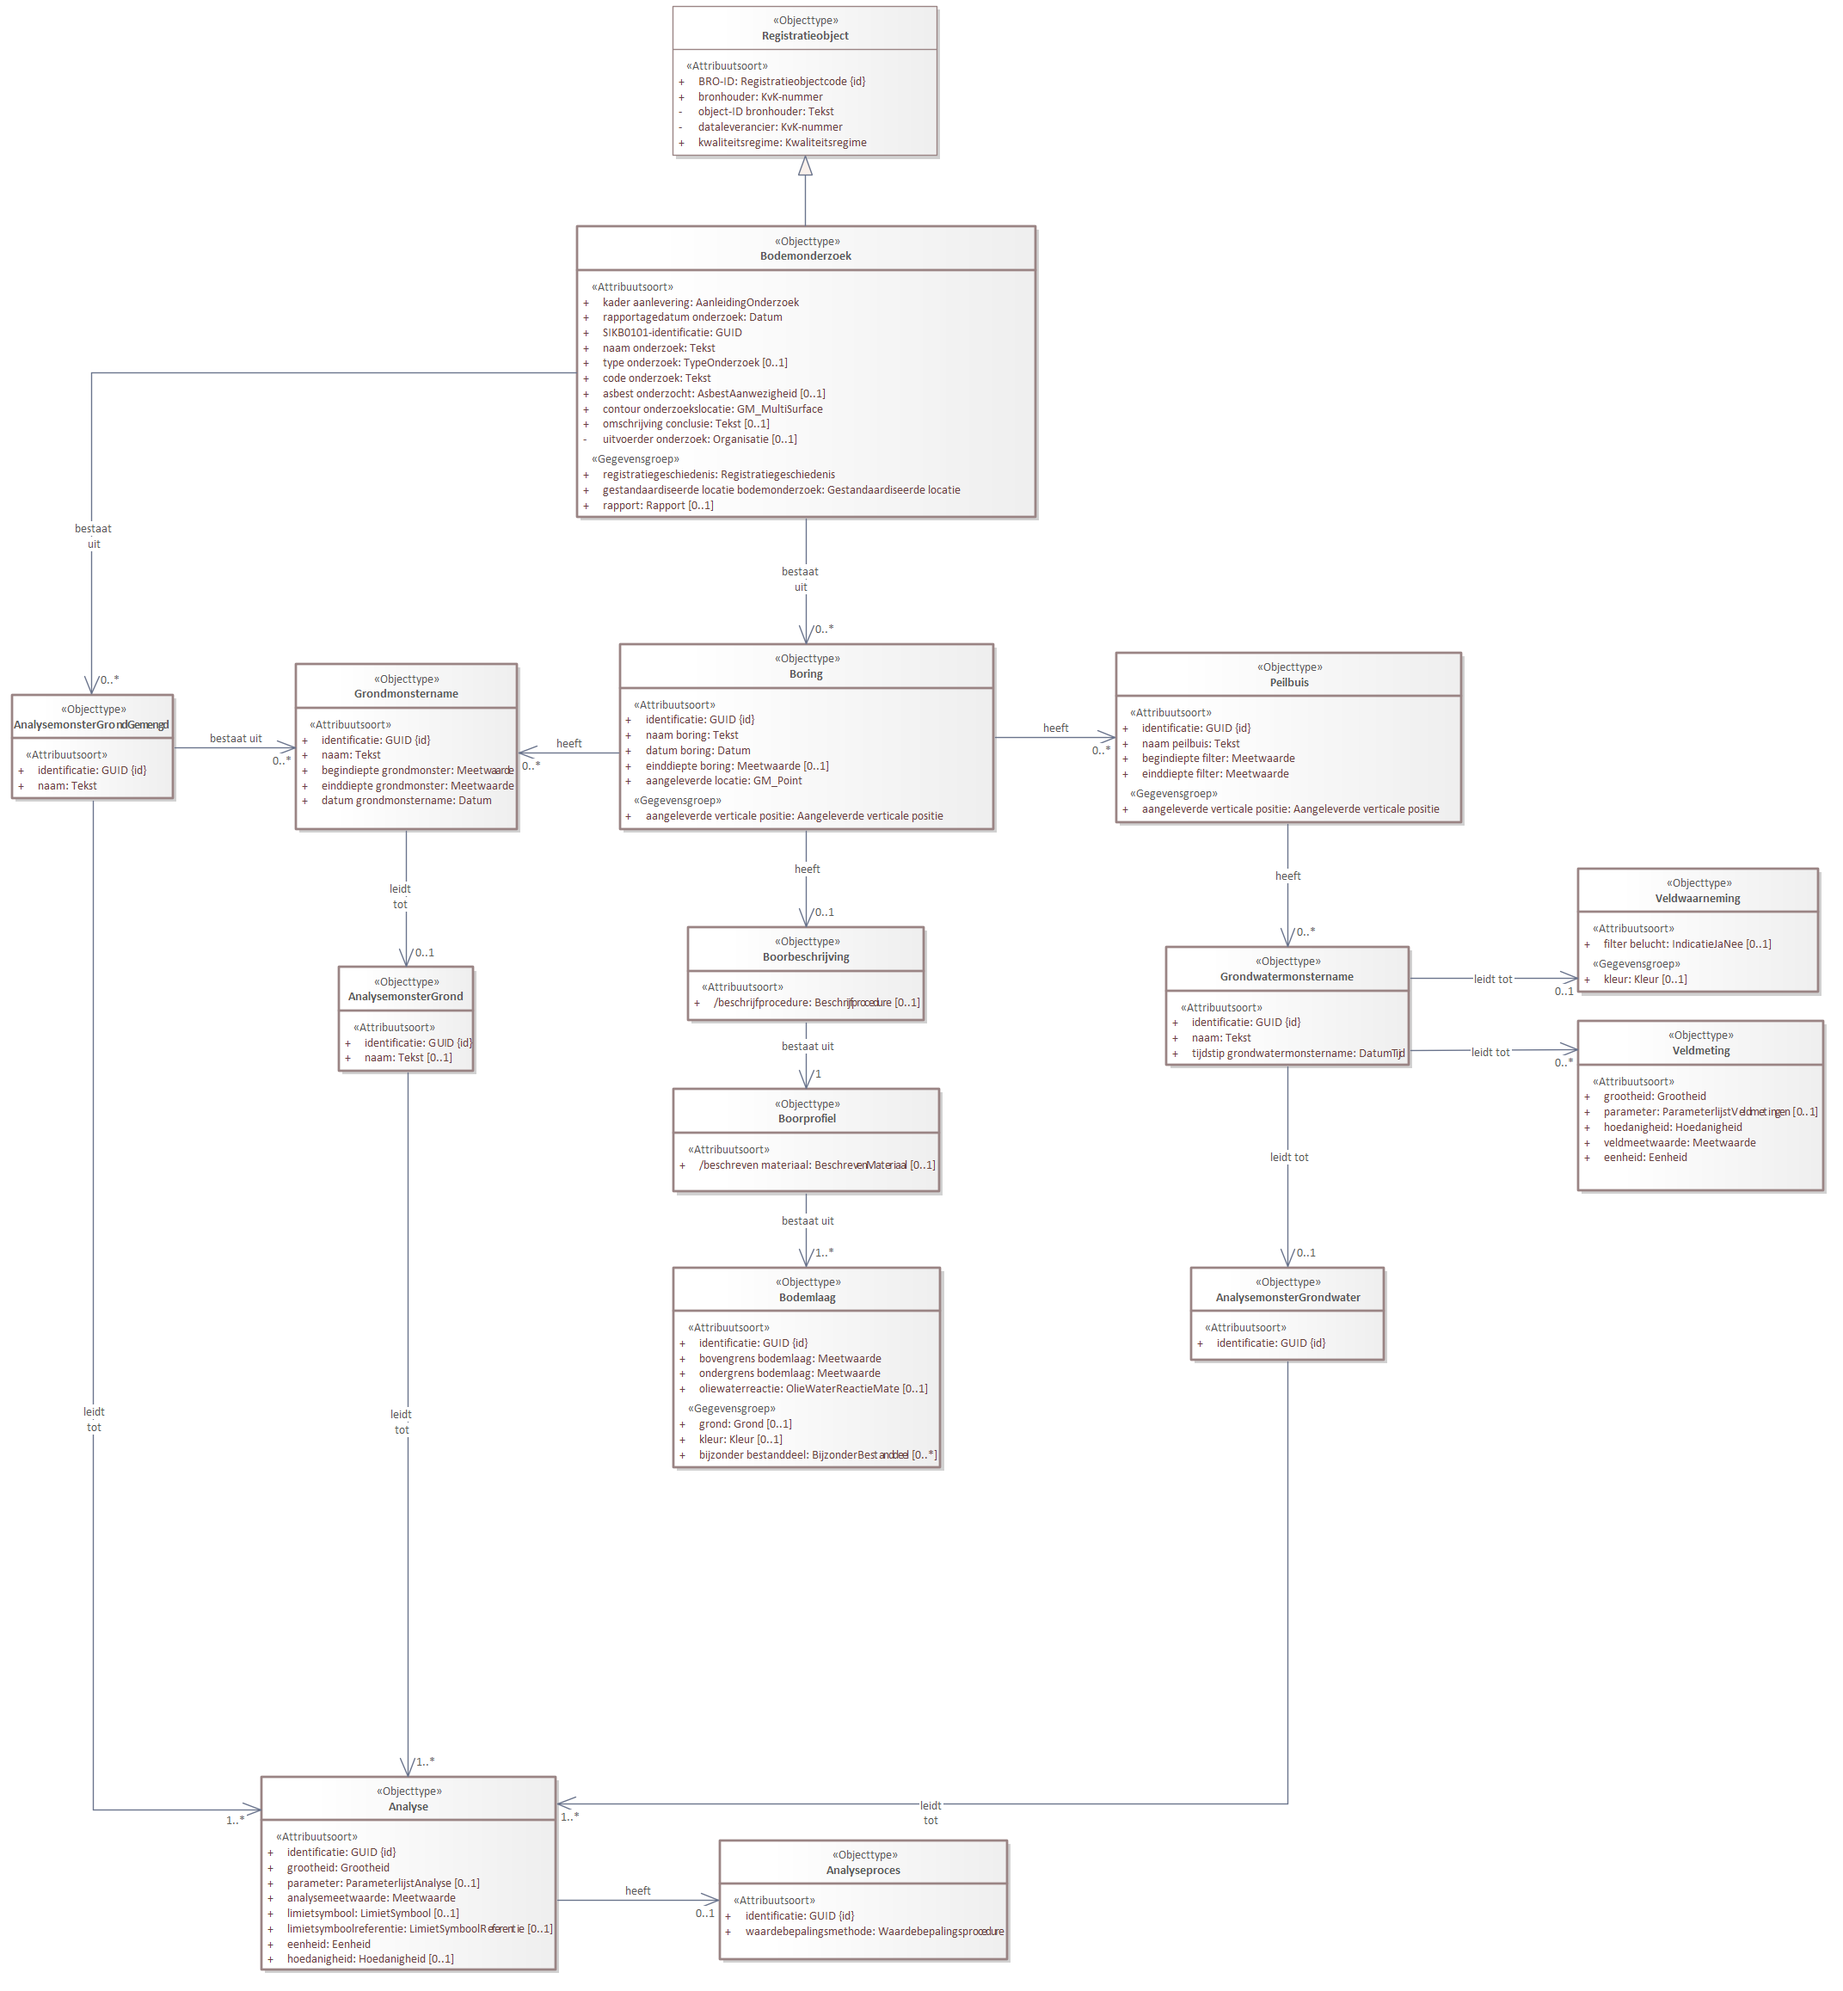
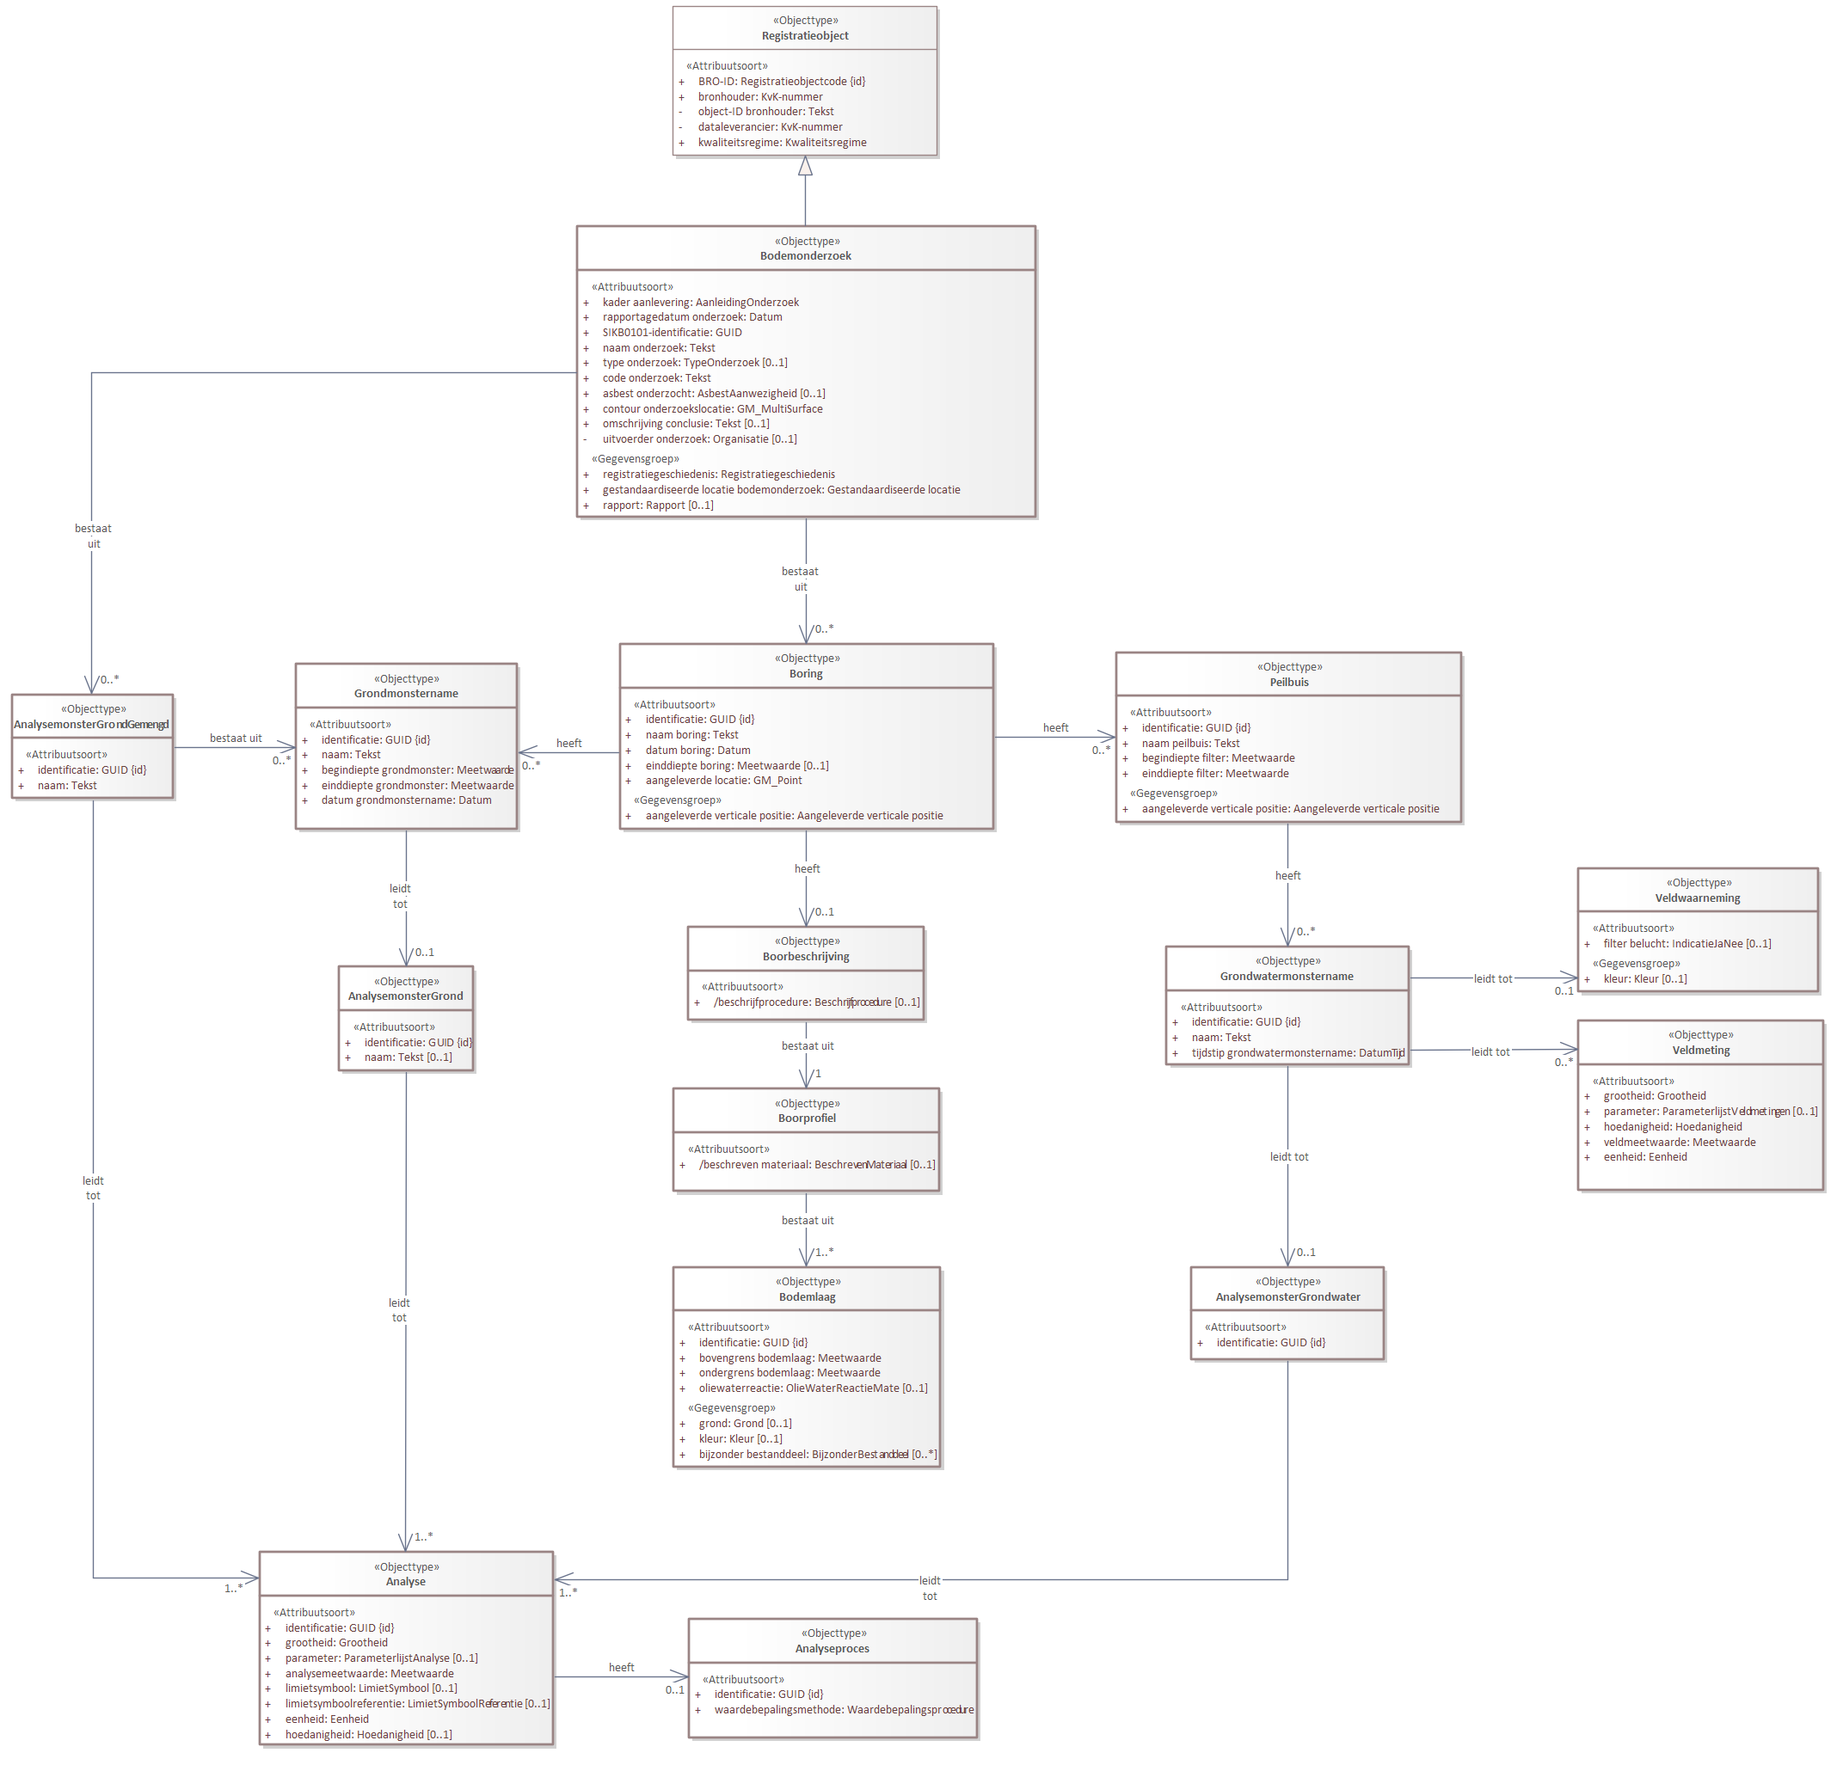
Conceptualmodel-MilieuhygienischbodemonderzoekSAD-0.2-1-20230126-20230627-113131

diff --git a/data/SAD-cat.msword.html b/data/SAD-cat.msword.html
@@ -15,7 +15,7 @@
    <body>
       <p>Conceptual model/Milieuhygienisch bodemonderzoek SAD/20230126</p>
       <p>Imvertor: 2.0.0</p>
-      <p>Model release: Conceptualmodel-MilieuhygienischbodemonderzoekSAD-0.2-1-20230126-20230627-112716</p>
+      <p>Model release: Conceptualmodel-MilieuhygienischbodemonderzoekSAD-0.2-1-20230126-20230627-113131</p>
       <hr>
       <section>
          <h1>Artikel 1 Definitie van registratieobject, entiteiten en attributen</h1>
@@ -66,7 +66,7 @@
          <section>
             <h2>Het domeinmodel</h2>
             <section id="">
-               <div class="imageinfo overview"><img src="Images/EAID_FABA90F8_223C_433d_BAE3_74F87B3DC220.png" usemap="#imagemap-EAID_FABA90F8_223C_433d_BAE3_74F87B3DC220" alt="Diagram &#xA;                        &#xA;                     "><map name="imagemap-EAID_FABA90F8_223C_433d_BAE3_74F87B3DC220"><area shape="rect" alt="Analyseproces" coords="837,2140,1172,2279" href="#graph_EAID_89FCADC6_B091_492b_94BD_37324C7637EA"><area shape="rect" alt="Analyse" coords="304,2066,647,2291" href="#graph_EAID_AE9CD58D_588C_44cf_A7B7_09EDB181B001"><area shape="rect" alt="AnalysemonsterGrondwater" coords="1385,1474,1610,1582" href="#graph_EAID_50237BC0_6FD9_482a_841F_A44137C00FCA"><area shape="rect" alt="AnalysemonsterGrond" coords="394,1124,551,1246" href="#graph_EAID_DFC0DB4F_7DC8_4920_917A_907819C6EC19"><area shape="rect" alt="Boorprofiel" coords="783,1266,1093,1386" href="#graph_EAID_6CF3D55E_1BD5_4108_BEA5_8B69EB2D2097"><area shape="rect" alt="Boorbeschrijving" coords="800,1078,1075,1187" href="#graph_EAID_080E44E6_527C_42db_BCF3_7400257377C2"><area shape="rect" alt="Veldmeting" coords="1835,1187,2121,1385" href="#graph_EAID_C348E314_A61B_43a0_AFED_083DA812EC5F"><area shape="rect" alt="Veldwaarneming" coords="1835,1010,2115,1154" href="#graph_EAID_A3A8A9F5_B12D_47e9_9D67_F12687999F0D"><area shape="rect" alt="AnalysemonsterGrondGemengd" coords="14,808,202,929" href="#graph_EAID_E7A3C99D_3348_4875_9BD5_4E0481E72C54"><area shape="rect" alt="Grondwatermonstername" coords="1356,1101,1639,1239" href="#graph_EAID_24B6DB20_4EA3_453f_B195_E642F22CC27C"><area shape="rect" alt="Grondmonstername" coords="344,772,602,965" href="#graph_EAID_8A8D6A0E_DAF9_415a_9AE7_09155A2C5869"><area shape="rect" alt="Peilbuis" coords="1298,759,1700,957" href="#graph_EAID_0075B243_E663_4ee7_9154_9D5DE12CCB21"><area shape="rect" alt="Bodemlaag" coords="783,1474,1094,1707" href="#graph_EAID_88CF9E45_3E0E_40da_96C1_2CDD80B69F6F"><area shape="rect" alt="Boring" coords="721,749,1156,965" href="#graph_EAID_40FFF5B9_99C5_4c21_9D72_A3D1DD3C857F"><area shape="rect" alt="Registratieobject" coords="782,7,1090,181" href="#graph_EAID_67DBE718_38E0_4ead_8649_72EA0B4A2355"><area shape="rect" alt="Bodemonderzoek" coords="671,263,1205,602" href="#graph_EAID_ABAADB49_C747_4775_A739_CC832CAD59F1"></map><p><b>Domeinmodel milieuhygienisch bodemonderzoek</b></p>
+               <div class="imageinfo overview"><img src="Images/EAID_FABA90F8_223C_433d_BAE3_74F87B3DC220.png" usemap="#imagemap-EAID_FABA90F8_223C_433d_BAE3_74F87B3DC220" alt="Diagram &#xA;                        &#xA;                     "><map name="imagemap-EAID_FABA90F8_223C_433d_BAE3_74F87B3DC220"><area shape="rect" alt="Analyseproces" coords="801,1883,1137,2022" href="#graph_EAID_89FCADC6_B091_492b_94BD_37324C7637EA"><area shape="rect" alt="Analyse" coords="302,1805,644,2030" href="#graph_EAID_AE9CD58D_588C_44cf_A7B7_09EDB181B001"><area shape="rect" alt="AnalysemonsterGrondwater" coords="1385,1474,1610,1582" href="#graph_EAID_50237BC0_6FD9_482a_841F_A44137C00FCA"><area shape="rect" alt="AnalysemonsterGrond" coords="394,1124,551,1246" href="#graph_EAID_DFC0DB4F_7DC8_4920_917A_907819C6EC19"><area shape="rect" alt="Boorprofiel" coords="783,1266,1093,1386" href="#graph_EAID_6CF3D55E_1BD5_4108_BEA5_8B69EB2D2097"><area shape="rect" alt="Boorbeschrijving" coords="800,1078,1075,1187" href="#graph_EAID_080E44E6_527C_42db_BCF3_7400257377C2"><area shape="rect" alt="Veldmeting" coords="1835,1187,2121,1385" href="#graph_EAID_C348E314_A61B_43a0_AFED_083DA812EC5F"><area shape="rect" alt="Veldwaarneming" coords="1835,1010,2115,1154" href="#graph_EAID_A3A8A9F5_B12D_47e9_9D67_F12687999F0D"><area shape="rect" alt="AnalysemonsterGrondGemengd" coords="14,808,202,929" href="#graph_EAID_E7A3C99D_3348_4875_9BD5_4E0481E72C54"><area shape="rect" alt="Grondwatermonstername" coords="1356,1101,1639,1239" href="#graph_EAID_24B6DB20_4EA3_453f_B195_E642F22CC27C"><area shape="rect" alt="Grondmonstername" coords="344,772,602,965" href="#graph_EAID_8A8D6A0E_DAF9_415a_9AE7_09155A2C5869"><area shape="rect" alt="Peilbuis" coords="1298,759,1700,957" href="#graph_EAID_0075B243_E663_4ee7_9154_9D5DE12CCB21"><area shape="rect" alt="Bodemlaag" coords="783,1474,1094,1707" href="#graph_EAID_88CF9E45_3E0E_40da_96C1_2CDD80B69F6F"><area shape="rect" alt="Boring" coords="721,749,1156,965" href="#graph_EAID_40FFF5B9_99C5_4c21_9D72_A3D1DD3C857F"><area shape="rect" alt="Registratieobject" coords="782,7,1090,181" href="#graph_EAID_67DBE718_38E0_4ead_8649_72EA0B4A2355"><area shape="rect" alt="Bodemonderzoek" coords="671,263,1205,602" href="#graph_EAID_ABAADB49_C747_4775_A739_CC832CAD59F1"></map><p><b>Domeinmodel milieuhygienisch bodemonderzoek</b></p>
                </div>
             </section>
          </section>

diff --git a/data/SAD-cat.respec.html b/data/SAD-cat.respec.html
@@ -44,7 +44,7 @@
       </section>
    <section id="">
       <h2>Het domeinmodel   </h2>
-      <div class="imageinfo overview"><img src="data/Images/EAID_FABA90F8_223C_433d_BAE3_74F87B3DC220.png" usemap="#imagemap-EAID_FABA90F8_223C_433d_BAE3_74F87B3DC220" alt="Diagram &#xA;                        &#xA;                     "><map name="imagemap-EAID_FABA90F8_223C_433d_BAE3_74F87B3DC220"><area shape="rect" alt="Analyseproces" coords="837,2140,1172,2279" href="#graph_EAID_89FCADC6_B091_492b_94BD_37324C7637EA"><area shape="rect" alt="Analyse" coords="304,2066,647,2291" href="#graph_EAID_AE9CD58D_588C_44cf_A7B7_09EDB181B001"><area shape="rect" alt="AnalysemonsterGrondwater" coords="1385,1474,1610,1582" href="#graph_EAID_50237BC0_6FD9_482a_841F_A44137C00FCA"><area shape="rect" alt="AnalysemonsterGrond" coords="394,1124,551,1246" href="#graph_EAID_DFC0DB4F_7DC8_4920_917A_907819C6EC19"><area shape="rect" alt="Boorprofiel" coords="783,1266,1093,1386" href="#graph_EAID_6CF3D55E_1BD5_4108_BEA5_8B69EB2D2097"><area shape="rect" alt="Boorbeschrijving" coords="800,1078,1075,1187" href="#graph_EAID_080E44E6_527C_42db_BCF3_7400257377C2"><area shape="rect" alt="Veldmeting" coords="1835,1187,2121,1385" href="#graph_EAID_C348E314_A61B_43a0_AFED_083DA812EC5F"><area shape="rect" alt="Veldwaarneming" coords="1835,1010,2115,1154" href="#graph_EAID_A3A8A9F5_B12D_47e9_9D67_F12687999F0D"><area shape="rect" alt="AnalysemonsterGrondGemengd" coords="14,808,202,929" href="#graph_EAID_E7A3C99D_3348_4875_9BD5_4E0481E72C54"><area shape="rect" alt="Grondwatermonstername" coords="1356,1101,1639,1239" href="#graph_EAID_24B6DB20_4EA3_453f_B195_E642F22CC27C"><area shape="rect" alt="Grondmonstername" coords="344,772,602,965" href="#graph_EAID_8A8D6A0E_DAF9_415a_9AE7_09155A2C5869"><area shape="rect" alt="Peilbuis" coords="1298,759,1700,957" href="#graph_EAID_0075B243_E663_4ee7_9154_9D5DE12CCB21"><area shape="rect" alt="Bodemlaag" coords="783,1474,1094,1707" href="#graph_EAID_88CF9E45_3E0E_40da_96C1_2CDD80B69F6F"><area shape="rect" alt="Boring" coords="721,749,1156,965" href="#graph_EAID_40FFF5B9_99C5_4c21_9D72_A3D1DD3C857F"><area shape="rect" alt="Registratieobject" coords="782,7,1090,181" href="#graph_EAID_67DBE718_38E0_4ead_8649_72EA0B4A2355"><area shape="rect" alt="Bodemonderzoek" coords="671,263,1205,602" href="#graph_EAID_ABAADB49_C747_4775_A739_CC832CAD59F1"></map><p><b>Domeinmodel milieuhygienisch bodemonderzoek</b></p>
+      <div class="imageinfo overview"><img src="data/Images/EAID_FABA90F8_223C_433d_BAE3_74F87B3DC220.png" usemap="#imagemap-EAID_FABA90F8_223C_433d_BAE3_74F87B3DC220" alt="Diagram &#xA;                        &#xA;                     "><map name="imagemap-EAID_FABA90F8_223C_433d_BAE3_74F87B3DC220"><area shape="rect" alt="Analyseproces" coords="801,1883,1137,2022" href="#graph_EAID_89FCADC6_B091_492b_94BD_37324C7637EA"><area shape="rect" alt="Analyse" coords="302,1805,644,2030" href="#graph_EAID_AE9CD58D_588C_44cf_A7B7_09EDB181B001"><area shape="rect" alt="AnalysemonsterGrondwater" coords="1385,1474,1610,1582" href="#graph_EAID_50237BC0_6FD9_482a_841F_A44137C00FCA"><area shape="rect" alt="AnalysemonsterGrond" coords="394,1124,551,1246" href="#graph_EAID_DFC0DB4F_7DC8_4920_917A_907819C6EC19"><area shape="rect" alt="Boorprofiel" coords="783,1266,1093,1386" href="#graph_EAID_6CF3D55E_1BD5_4108_BEA5_8B69EB2D2097"><area shape="rect" alt="Boorbeschrijving" coords="800,1078,1075,1187" href="#graph_EAID_080E44E6_527C_42db_BCF3_7400257377C2"><area shape="rect" alt="Veldmeting" coords="1835,1187,2121,1385" href="#graph_EAID_C348E314_A61B_43a0_AFED_083DA812EC5F"><area shape="rect" alt="Veldwaarneming" coords="1835,1010,2115,1154" href="#graph_EAID_A3A8A9F5_B12D_47e9_9D67_F12687999F0D"><area shape="rect" alt="AnalysemonsterGrondGemengd" coords="14,808,202,929" href="#graph_EAID_E7A3C99D_3348_4875_9BD5_4E0481E72C54"><area shape="rect" alt="Grondwatermonstername" coords="1356,1101,1639,1239" href="#graph_EAID_24B6DB20_4EA3_453f_B195_E642F22CC27C"><area shape="rect" alt="Grondmonstername" coords="344,772,602,965" href="#graph_EAID_8A8D6A0E_DAF9_415a_9AE7_09155A2C5869"><area shape="rect" alt="Peilbuis" coords="1298,759,1700,957" href="#graph_EAID_0075B243_E663_4ee7_9154_9D5DE12CCB21"><area shape="rect" alt="Bodemlaag" coords="783,1474,1094,1707" href="#graph_EAID_88CF9E45_3E0E_40da_96C1_2CDD80B69F6F"><area shape="rect" alt="Boring" coords="721,749,1156,965" href="#graph_EAID_40FFF5B9_99C5_4c21_9D72_A3D1DD3C857F"><area shape="rect" alt="Registratieobject" coords="782,7,1090,181" href="#graph_EAID_67DBE718_38E0_4ead_8649_72EA0B4A2355"><area shape="rect" alt="Bodemonderzoek" coords="671,263,1205,602" href="#graph_EAID_ABAADB49_C747_4775_A739_CC832CAD59F1"></map><p><b>Domeinmodel milieuhygienisch bodemonderzoek</b></p>
       </div>
    </section>
    <section id="">
